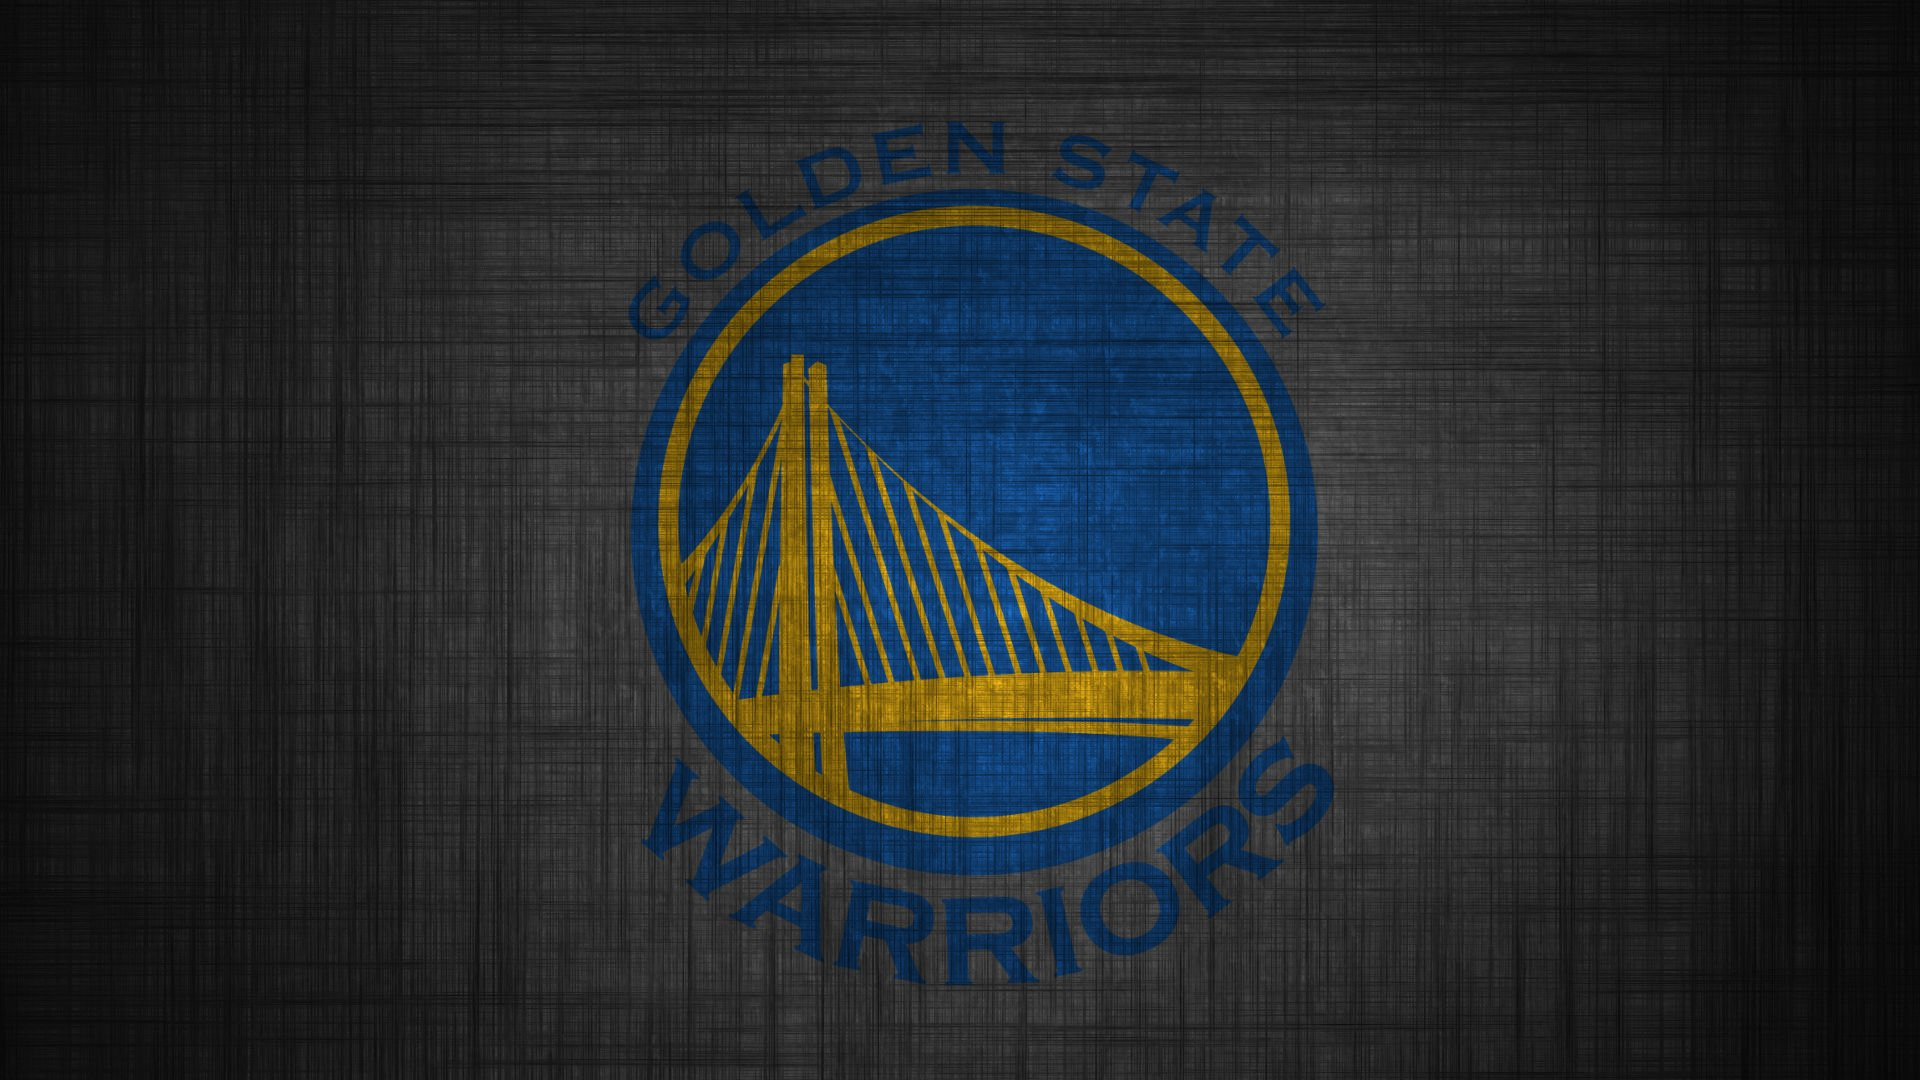
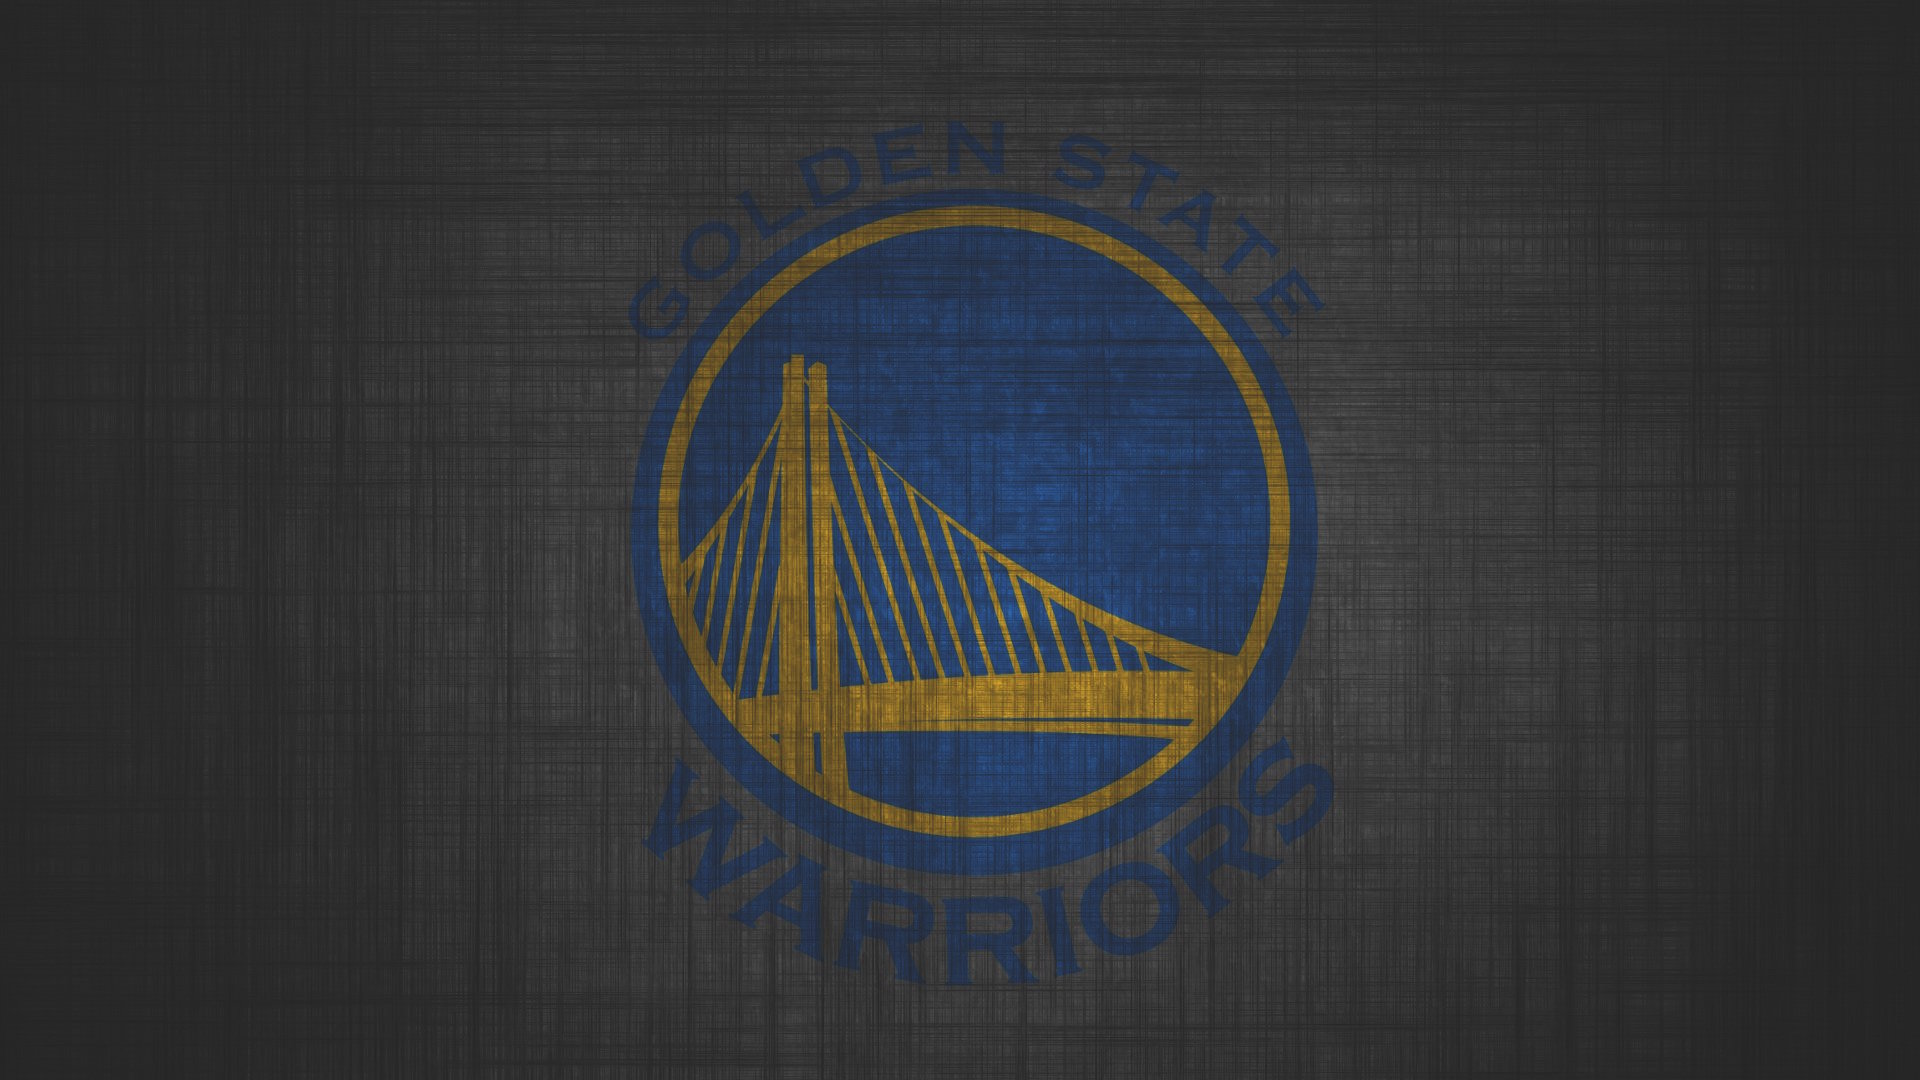
content done, working on js

diff --git a/js/main.js b/js/main.js
@@ -275,13 +275,14 @@ document.getElementById("see-results").addEventListener("click", quizResult);
         console.log(correct);
         var userAnswer = $("input[name='answer" + i + "']:checked").val();
         console.log(userAnswer);
-        document.getElementById('userAns' + i).textContent = 'Your Answer: ' + userAnswer;
-
+        document.getElementById('userAns' + i).textContent = 'Your Answer: ' + userAnswer; 
+      // if userAnswer is correct, add class show-answers and correct
+      // update total  
       if(correct == userAnswer) {
-        $('.show-answers').addClass('correct').removeClass('wrong');
+        $('.show-answers')[i].className = 'show-answers correct';
         correctAnswer++;
       } else {
-        $('.show-answers').addClass('wrong').removeClass('correct');
+        $('.show-answers')[i].className = ' show-answers wrong';
         wrongAnswer++
       }
     } //end of i for loop
@@ -295,7 +296,7 @@ document.getElementById("see-results").addEventListener("click", quizResult);
   var message = document.getElementById('message');  
 
     // Display a message based on total score
-    if(totalNum >= '90%'){
+    if(totalNum >= '80%'){
       message.textContent = "You live and breathe Dub Nation!";
     } else if (totalNum >= '60%') {
       message.textContent = "Admit it, you're a bandwaggoner!"; 

diff --git a/css/main.css b/css/main.css
@@ -119,8 +119,8 @@ input[type='radio'] {
 }  
 
 .results-area {
-  background: url(../img/gsw.jpg);
-  background-size: 100% 70%;
+  background: url(../img/gsw2.jpg);
+  background-size: 100% 50%;
 }
 
 .results-btn {
@@ -168,11 +168,13 @@ input[type='radio'] {
 .correct {
   border: 2px solid #006BB6;
   border-radius: 25px;
+  padding: 10px;
 }
 
 .wrong {
   border: 2px solid red;
   border-radius: 25px;
+  padding: 10px;
 }
 
 .results {
@@ -184,4 +186,15 @@ input[type='radio'] {
   left: 1070px;
   bottom: 148px;
   background-color: #FDB927;
+}
+
+.img-correct {
+  position: relative;
+  left: 286px;
+  bottom: 84px;
+  color: #006BB6;
+}
+
+.img-wrong {
+
 }
